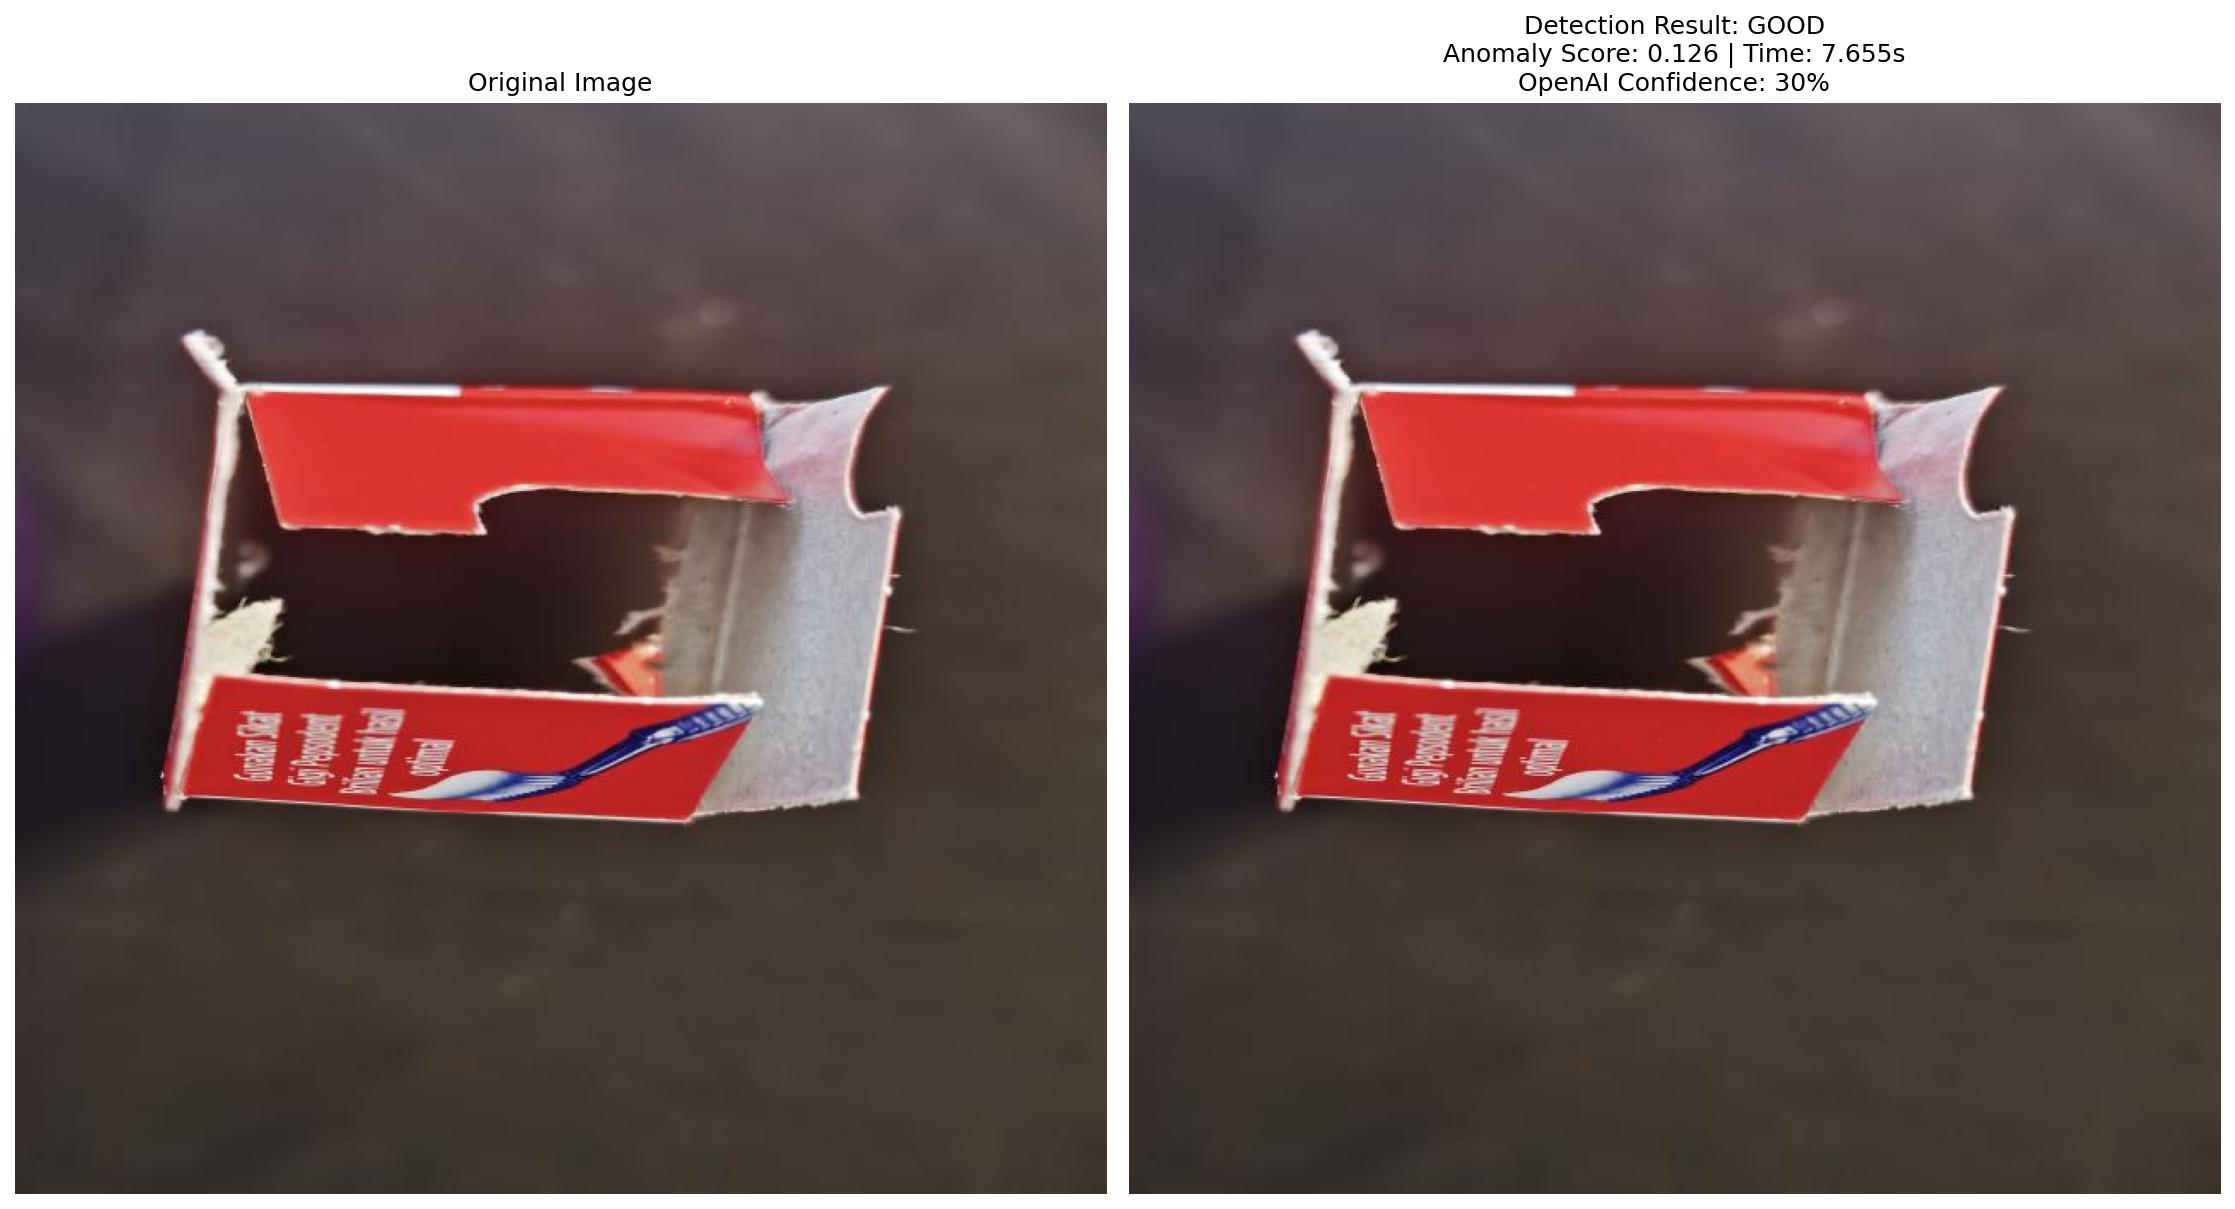
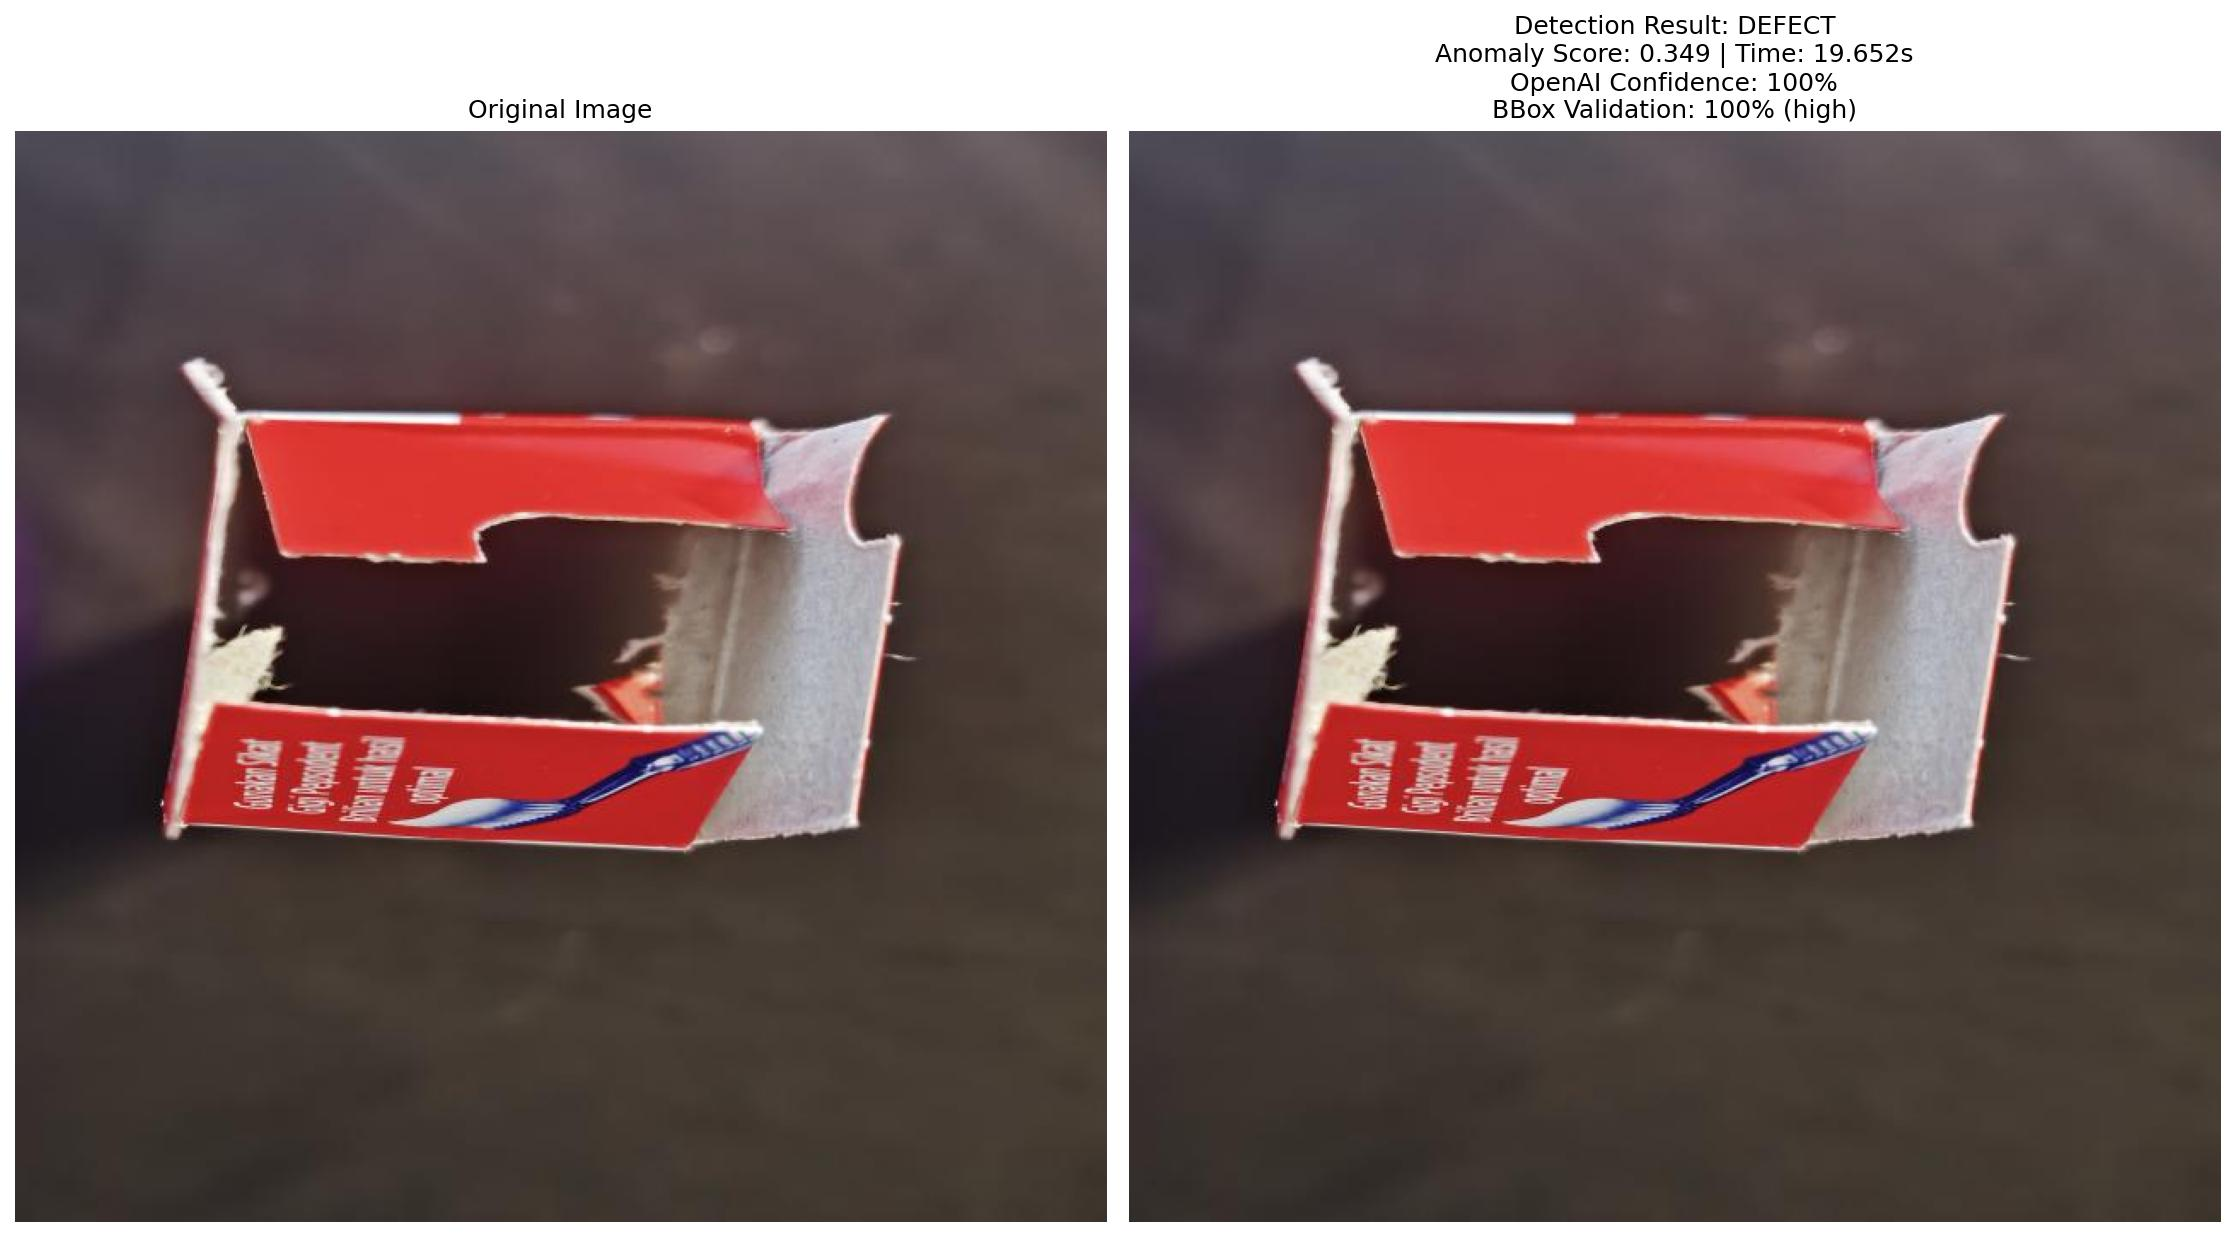
update openai ai core

Changed region(s): [[0.5557, 0.2754, 0.9262, 0.7039], [0.0617, 0.2754, 0.4013, 0.7039], [0.0, 0.0, 1.0, 0.1224]]

diff --git a/flask-ai/main.py b/flask-ai/main.py
@@ -23,9 +23,9 @@ except ImportError:
 try:
     from core.detection import DetectionCore
     DETECTION_CORE_AVAILABLE = True
-    print("✅ Detection core available")
+    print("Detection core available")
 except ImportError:
-    print("⚠ Detection core not available - using simple detection mode")
+    print("Detection core not available - using simple detection mode")
     DETECTION_CORE_AVAILABLE = False
 
 
@@ -64,9 +64,9 @@ class StatelessDefectDetector:
             success = self.load_models(final_anomalib_path, final_hrnet_path)
             if success:
                 self._init_detection_core()
-                print("✅ Stateless system ready!")
+                print("Stateless system ready!")
             else:
-                print("❌ Model loading failed")
+                print("Model loading failed")
     
     def load_models(self, anomalib_path=None, hrnet_path=None):
         """Load models"""
@@ -82,7 +82,7 @@ class StatelessDefectDetector:
             try:
                 anomalib_model, hrnet_model = self.model_loader.get_models()
                 self.detection_core = DetectionCore(anomalib_model, hrnet_model, self.device)
-                print("✅ Detection core initialized")
+                print("Detection core initialized")
             except Exception as e:
                 self.logger.warning(f"Detection core initialization failed: {e}")
     
@@ -244,42 +244,42 @@ def quick_detect(image_path, anomalib_path=None, hrnet_path=None):
 # Simple test function
 def test_system():
     """Simple system test - stateless version"""
-    print("🧪 Testing STATELESS System...")
+    print("Testing STATELESS System...")
     print("=" * 50)
     
     try:
         detector = StatelessDefectDetector(auto_load=True)
         
         if detector.is_ready():
-            print("✅ System ready!")
+            print("System ready!")
             
             system_info = detector.get_system_info()
             print(f"   Device: {system_info['device']}")
-            print(f"   Models: {'✅' if system_info['models_loaded'] else '❌'}")
-            print(f"   Detection Core: {'✅' if system_info['detection_core_available'] else '❌'}")
+            print(f"   Models: {'' if system_info['models_loaded'] else '❌'}")
+            print(f"   Detection Core: {'' if system_info['detection_core_available'] else '❌'}")
             print(f"   Mode: {system_info['mode']}")
             print(f"   Persistent Storage: {system_info['persistent_storage']}")
             
             # Test API compatibility
-            print("\n🔗 Testing API server compatibility...")
+            print("\nTesting API server compatibility...")
             if hasattr(detector, 'process_image') and callable(detector.process_image):
-                print("    ✅ process_image method available")
+                print("    process_image method available")
             if hasattr(detector, 'get_system_info') and callable(detector.get_system_info):
-                print("    ✅ get_system_info method available")
+                print("    get_system_info method available")
             if hasattr(detector, 'is_ready') and callable(detector.is_ready):
-                print("    ✅ is_ready method available")
+                print("    is_ready method available")
             
             # Test create_detector function
-            print("\n🏭 Testing create_detector function...")
+            print("\nTesting create_detector function...")
             api_detector = create_detector()
             if api_detector and api_detector.is_ready():
-                print("    ✅ create_detector() works correctly")
+                print("    create_detector() works correctly")
             else:
-                print("    ⚠ create_detector() created detector but not ready")
+                print("    create_detector() created detector but not ready")
             
             return True
         else:
-            print("❌ System not ready")
+            print("System not ready")
             return False
             
     except Exception as e:
@@ -290,30 +290,30 @@ def test_system():
 
 
 if __name__ == "__main__":
-    print("🚀 Unified Defect Detection System - STATELESS VERSION")
+    print("Unified Defect Detection System - STATELESS VERSION")
     print("=" * 70)
-    print("📝 Features:")
-    print("   ✅ No database dependencies")
-    print("   ✅ No file writing operations")
-    print("   ✅ Only logging to files")
-    print("   ✅ In-memory processing only")
-    print("   ✅ Stateless API compatible")
+    print("Features:")
+    print("   No database dependencies")
+    print("   No file writing operations")
+    print("   Only logging to files")
+    print("   In-memory processing only")
+    print("   Stateless API compatible")
     print("=" * 70)
     
     if test_system():
-        print("\n🎉 System working!")
-        print("\n📋 API Server Compatible Methods:")
+        print("\nSystem working!")
+        print("\nAPI Server Compatible Methods:")
         print("   detector = create_detector()")
         print("   result = detector.process_image(image_path)")
         print("   info = detector.get_system_info()")
         print("   ready = detector.is_ready()")
-        print("\n🛠 Convenience Functions:")
+        print("\nConvenience Functions:")
         print("   result = quick_detect(image_path)")
-        print("\n✅ Ready for stateless API server integration!")
-        print("💾 Storage: In-memory only, no persistent data")
+        print("\nReady for stateless API server integration!")
+        print("Storage: In-memory only, no persistent data")
     else:
-        print("\n❌ System test failed. Check model paths in config.py")
-        print("💡 Make sure your model files exist and are accessible")
+        print("\nSystem test failed. Check model paths in config.py")
+        print("Make sure your model files exist and are accessible")
     
-    print("\n🔌 This main.py is STATELESS and compatible with your API server!")
+    print("\nThis main.py is STATELESS and compatible with your API server!")
     print("   API server can import: from main import StatelessDefectDetector, create_detector")

diff --git a/flask-ai/test_form_upload.py b/flask-ai/test_form_upload.py
@@ -1,0 +1,131 @@
+"""
+Test JSON with longer timeout to see if it's just slower
+"""
+
+import requests
+import base64
+import time
+import os
+
+def test_json_with_long_timeout():
+    """Test JSON upload with extended timeout"""
+    
+    image_file = "1745296632783_jpg.rf.136d6400d4db0fc531a60042da9f37d3.jpg"
+    url = "http://localhost:5002/api/detection/image"
+    
+    print("🧪 Testing JSON Base64 with Extended Timeout")
+    print("=" * 60)
+    
+    if not os.path.exists(image_file):
+        print(f"❌ Image file not found: {image_file}")
+        return
+    
+    try:
+        print("📤 Loading and encoding image...")
+        start_encode = time.time()
+        
+        with open(image_file, 'rb') as f:
+            image_data = f.read()
+            image_base64 = base64.b64encode(image_data).decode('utf-8')
+        
+        encode_time = time.time() - start_encode
+        print(f"✅ Base64 encoding completed in {encode_time:.3f}s")
+        print(f"📊 Original size: {len(image_data)} bytes")
+        print(f"📊 Base64 size: {len(image_base64)} characters")
+        
+        payload = {
+            "image_base64": image_base64,
+            "filename": image_file
+        }
+        
+        print(f"📤 Sending JSON request with 60s timeout...")
+        start_request = time.time()
+        
+        # Extended timeout to 60 seconds
+        response = requests.post(url, json=payload, timeout=60)
+        
+        request_time = time.time() - start_request
+        
+        if response.status_code == 200:
+            result = response.json()
+            print(f"✅ JSON upload successful in {request_time:.2f}s")
+            
+            if result['status'] == 'success':
+                data = result['data']
+                print(f"🎯 Final Decision: {data['final_decision']}")
+                print(f"📊 Processing Time: {data['processing_time']:.3f}s")
+                print(f"🔍 Anomaly Score: {data['anomaly_detection']['anomaly_score']:.3f}")
+                print(f"🐛 Detected Defects: {data['defect_count']}")
+                
+                # Total time breakdown
+                total_time = encode_time + request_time
+                print(f"\n⏱ Time Breakdown:")
+                print(f"   Base64 encoding: {encode_time:.3f}s")
+                print(f"   HTTP request: {request_time:.3f}s")
+                print(f"   Total client time: {total_time:.3f}s")
+                print(f"   Server processing: {data['processing_time']:.3f}s")
+                
+            else:
+                print(f"❌ API error: {result}")
+        else:
+            print(f"❌ HTTP Error: {response.status_code}")
+            print(f"Response: {response.text[:500]}...")
+    
+    except requests.exceptions.Timeout:
+        print("❌ Request timed out after 60 seconds")
+        print("💡 JSON processing might be significantly slower than form data")
+    except Exception as e:
+        print(f"❌ JSON test failed: {e}")
+
+def test_small_image_json():
+    """Test with a smaller image to see if size matters"""
+    
+    print("\n🧪 Testing JSON with Smaller Image")
+    print("=" * 50)
+    
+    # Try to create a smaller test image
+    try:
+        from PIL import Image
+        import io
+        
+        # Create a small test image
+        test_img = Image.new('RGB', (100, 100), color='red')
+        img_buffer = io.BytesIO()
+        test_img.save(img_buffer, format='JPEG', quality=50)
+        small_image_data = img_buffer.getvalue()
+        
+        print(f"📊 Small image size: {len(small_image_data)} bytes")
+        
+        image_base64 = base64.b64encode(small_image_data).decode('utf-8')
+        
+        payload = {
+            "image_base64": image_base64,
+            "filename": "small_test.jpg"
+        }
+        
+        print("📤 Sending small image via JSON...")
+        start = time.time()
+        
+        response = requests.post("http://localhost:5002/api/detection/image", 
+                               json=payload, timeout=30)
+        
+        if response.status_code == 200:
+            result = response.json()
+            process_time = time.time() - start
+            print(f"✅ Small image JSON successful in {process_time:.2f}s")
+            
+            if result['status'] == 'success':
+                data = result['data']
+                print(f"🎯 Decision: {data['final_decision']}")
+                print(f"🔍 Score: {data['anomaly_detection']['anomaly_score']:.3f}")
+        else:
+            print(f"❌ Small image test failed: {response.status_code}")
+            
+    except ImportError:
+        print("⚠ PIL not available, skipping small image test")
+    except Exception as e:
+        print(f"❌ Small image test error: {e}")
+
+if __name__ == "__main__":
+    test_json_with_long_timeout()
+    test_small_image_json()

diff --git a/flask-ai/services/detection_service.py b/flask-ai/services/detection_service.py
@@ -203,21 +203,13 @@ class DetectionService:
     def _process_frame_fast_with_openai(self, image_path):
         """Fast frame processing with selective OpenAI analysis"""
         try:
-            # Use detector's anomaly detection first
+            # Use same detector logic as full mode for consistency
             result = self.detector.detect_anomaly(image_path)
             
-            # Only use OpenAI for borderline cases in fast mode
+            # Fast mode only skips OpenAI analysis, not core detection logic
             if result and 'anomaly_detection' in result:
-                anomaly_score = result['anomaly_detection'].get('anomaly_score', 0)
-                
-                # Only analyze with OpenAI if score is borderline (0.6-0.8 range)
-                if 0.6 <= anomaly_score <= 0.8:
-                    # Quick OpenAI analysis for borderline cases
-                    from config import OPENAI_API_KEY
-                    if OPENAI_API_KEY and hasattr(self.detector, 'detection_core'):
-                        openai_analysis = self.detector.detection_core._analyze_anomaly_with_openai(image_path, result['anomaly_detection'])
-                        if openai_analysis:
-                            result['openai_analysis'] = openai_analysis
+                # Keep the same decision logic as full processing
+                pass  # Don't modify the decision
             
             return result
             

diff --git a/flask-ai/models/model_loader.py b/flask-ai/models/model_loader.py
@@ -183,9 +183,17 @@ class PatchCoreInferencer:
         distances = torch.cdist(features_flat, memory_tensor)
         min_distances = torch.min(distances, dim=1)[0]
         
-        # Calculate and normalize anomaly score
+        # Calculate and normalize anomaly score using proper normalization
         anomaly_score = float(torch.mean(min_distances).cpu().item())
-        anomaly_score = min(1.0, max(0.0, anomaly_score / 100.0))
+        
+        # Use memory bank median distance for normalization instead of fixed 100
+        if not hasattr(self, 'score_normalizer'):
+            sample_size = min(100, memory_tensor.shape[0])
+            memory_distances = torch.cdist(memory_tensor[:sample_size], memory_tensor[:sample_size])
+            self.score_normalizer = torch.median(memory_distances[memory_distances > 0]).item()
+        
+        anomaly_score = anomaly_score / self.score_normalizer
+        anomaly_score = min(1.0, max(0.0, anomaly_score))
         
         return anomaly_score
 
